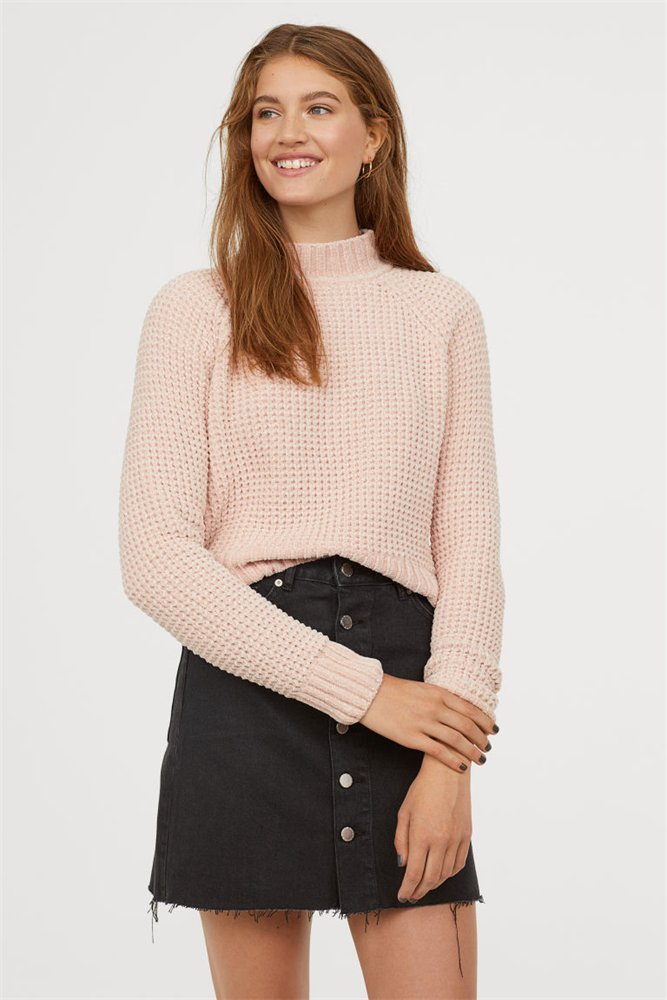
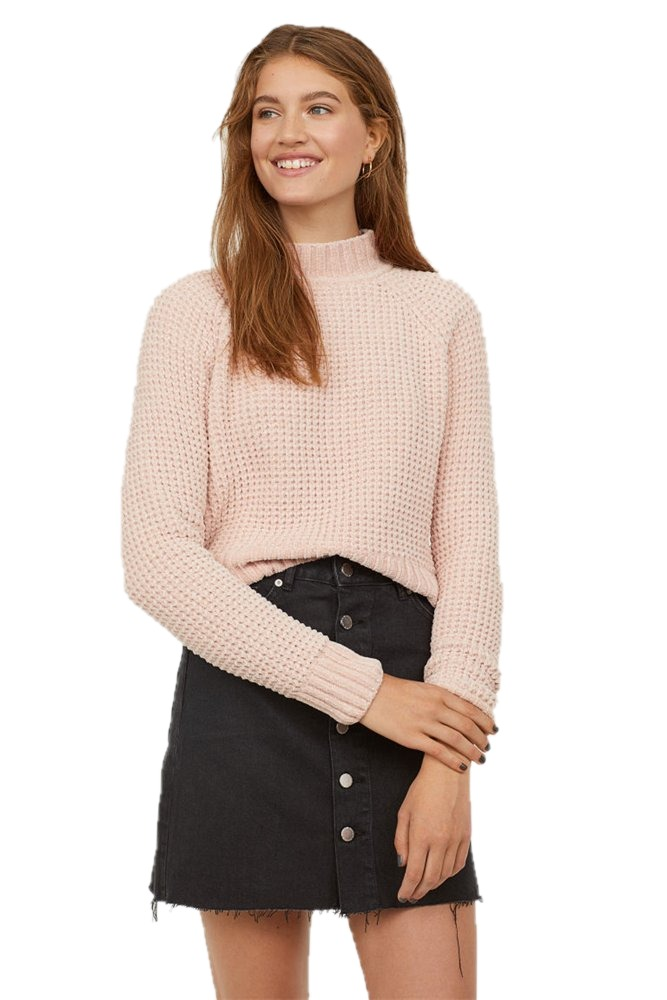
[2026-10-21 10:05] Collection page options: first view, cart button + wishlist/compare under grid cards (hover buttons hidden, button colour), image width, column/row gaps, collection image under the breadcrumb, +/- category toggle, pagination radius; clone02 uses them (3 columns, 18 per page, #f59d

diff --git a/scripts/demo/clone02.js b/scripts/demo/clone02.js
@@ -80,6 +80,10 @@ const HOME_COLLECTIONS = ['daily-deals', 'hot-deals', 'trending', 'new-items', '
 const inherited = clone01.products.map((p) => ({ ...p, collections: p.collections.filter((c) => !HOME_COLLECTIONS.includes(c)) }));
 
 const SIZES = ['S', 'M', 'L', 'XL'];
+// demos/clone02/images/p-*.jpg of the other homepage products have the background whitened
+// (the 7 not listed here) — don't regenerate them from the layout without redoing that
+const GREY_PHOTOS = ['cable-knit-sweater-dress', 'faux-fur-jacket', 'floral-balloon-sleeve-blouse', 'ditsy-floral-blouse', 'green-striped-satin-shirt',
+  'jacquard-knit-sweater', 'off-shoulder-poplin-top', 'open-knit-sweater', 'red-lace-trim-cami', 'soft-blue-knit-sweater', 'white-boxy-t-shirt', 'white-peplum-wrap-blouse'];
 const BRANDS = ['Sunshine', 'MS Studio', 'Art Studio', 'Pure', 'Handcrafted', 'Handmade'];
 const CARE = 'Machine wash at 30°C. Do not tumble dry. Iron at low temperature.';
 const P = [];
@@ -149,7 +153,10 @@ NEW.forEach(([handle, title, type, , , photo, , collections, short, details, com
   const key = src(`p-${handle}`, photo);
   const [price, compare, isNew, names] = LOOK[handle];
   const brand = BRANDS[(inherited.length + i) % BRANDS.length];
-  const inCollections = [...collections.filter((c) => c !== 'sale'), ...(compare ? ['sale'] : [])];
+  let inCollections = [...collections.filter((c) => c !== 'sale'), ...(compare ? ['sale'] : [])];
+  // Studio photos whose grey background could not be removed cleanly: homepage sections only,
+  // not on the category pages (white backgrounds there) — user request 2026-10-21
+  if (GREY_PHOTOS.includes(handle)) inCollections = inCollections.filter((c) => HOME_COLLECTIONS.includes(c));
   P.push({
     handle,
     title,
@@ -335,8 +342,8 @@ Object.assign(data.presets.Default, {
   color_secondary: '#c0dcdd',
   color_accent_dark: '#000000',
   color_accent_ink: '#000000',
-  color_price: '#f59dad',
-  color_price_regular: '#f59dad', // layout: prices without a discount are pink too
+  color_price: '#333333', // user request 2026-10-21 (the layout has pink prices)
+  color_price_regular: '#333333',
   color_badge_sale: '#fed38e',
   color_heading: '#000000',
   color_text: '#000000',
@@ -351,6 +358,7 @@ Object.assign(data.presets.Default, {
   notify_bar_size: 2,
   notify_bar_quick_view: false,
   quick_view_color_style: 'swatch',
+  pagination_radius: 5,
   // Cards: full-width 271×313 photo boxes
   card_image_shape: 'tall',
   card_image_fit: 'cover',
@@ -416,6 +424,13 @@ const INNER = ['collection', 'product', 'cart', 'blog', 'article', 'list-collect
 const innerTemplates = Object.fromEntries(INNER.map((name) => [name, base(`templates/${name}.json`)]));
 // Product page: thumbnails in a row under the large image (user request 2026-10-21)
 Object.assign(innerTemplates.product.sections.main.settings, { thumbs_position: 'bottom' });
+// Collection page (user request 2026-10-21): 3 columns first, Add to cart / Select options +
+// wishlist / compare under every card, image 75% of the card, 2.5rem columns, roomier rows,
+// collection image under the breadcrumb, + / − on categories with sub-categories
+Object.assign(innerTemplates.collection.sections['product-grid'].settings, {
+  products_per_page: 18, default_view: 'grid-3', grid_card_actions: true, grid_button_color: '#f59dad', card_image_width: 75, grid_column_gap: 2.5, grid_row_gap: 6,
+  collection_image_position: 'top', categories_toggle_icon: 'plus',
+});
 // Theme-setting images clone02 still takes from clone01 (inner-page banners, about photos…)
 const used = JSON.stringify([index, innerTemplates, header, footer, data]);
 const inheritedFiles = clone01.files.filter((x) => !images[x.key] && used.includes(`shopify://shop_images/${x.filename}`));

diff --git a/common/scss/section/_oc-collection.scss b/common/scss/section/_oc-collection.scss
@@ -380,7 +380,10 @@
 }
 
 // PSD grid: 4 × 218px cards, 18px apart
-#ProductGridContainer:not([data-view='list']) .product-grid { column-gap: 1.8rem; }
+#ProductGridContainer:not([data-view='list']) .product-grid {
+  column-gap: var(--grid-col-gap, 1.8rem);
+  row-gap: var(--grid-row-gap, 4rem);
+}
 
 // Grid / list switch: hover discs in grid view, side icons in list view
 // List view: no hover icons on the image — wishlist / compare sit beside Add to cart
@@ -485,4 +488,76 @@
   html.oc-sidebar-locked { overflow: hidden; }
 
   .collection-grid__title { font-size: 2.4rem; }
+}
+
+// Grid: image box narrower than the card (Collection → "Grid: image width"), centred
+#ProductGridContainer:not([data-view='list']) .card-wrapper .card__inner {
+  width: var(--card-image-box, 100%);
+  margin-inline: auto;
+}
+
+// Grid: "Add to cart / Select options" + small wishlist / compare icons always under the card
+// (the list view's action row, shown in the grid views too)
+#ProductGridContainer[data-grid-actions]:not([data-view='list']) {
+  // The row replaces the hover buttons on the image
+  .card-product__oc-actions,
+  .oc-card-actions,
+  .card-product__actions,
+  .card-product__bar { display: none !important; }
+
+  .card-product__list-atc {
+    background: var(--grid-btn-bg, var(--color-primary, #1b1b1b));
+
+    &:hover,
+    &:focus-visible { background: var(--grid-btn-bg, var(--color-primary, #1b1b1b)); filter: brightness(0.92); color: #fff; }
+  }
+
+  .card-product__list-actions {
+    display: flex;
+    order: 9;
+    justify-content: center;
+    gap: 0.6rem;
+    margin-top: 1rem !important;
+  }
+
+  .card-product__list-atc {
+    display: inline-flex;
+    min-width: 0;
+    min-height: 3.6rem;
+    padding: 0 1.6rem;
+    font-size: 1.2rem;
+  }
+
+  .card-product__list-icon {
+    width: 3.6rem;
+    height: 3.6rem;
+
+    svg { width: 1.5rem; height: 1.5rem; }
+  }
+}
+
+// Collection image under the breadcrumb, full container width
+.collection-grid__image--top {
+  margin-bottom: 3rem;
+
+  img { width: 100%; height: auto; }
+}
+
+// Product categories: + / − instead of the arrow (Collection → sub-category toggle)
+.facets-wrapper .sidebar-categories--plus {
+  .sidebar-categories__toggle,
+  .sidebar-categories__details[open] .sidebar-categories__toggle { transform: none; }
+
+  .sidebar-categories__toggle svg { width: 1.2rem; height: 1.2rem; }
+
+  .sidebar-categories__minus,
+  .sidebar-categories__details[open] .sidebar-categories__plus { display: none; }
+
+  .sidebar-categories__details[open] .sidebar-categories__minus { display: inline-flex; }
+
+  .sidebar-categories__plus,
+  .sidebar-categories__minus { display: inline-flex; }
+
+  .sidebar-categories__details[open] .sidebar-categories__plus { display: none; }
+  .sidebar-categories__details:not([open]) .sidebar-categories__minus { display: none; }
 }

diff --git a/scripts/demo-import.js b/scripts/demo-import.js
@@ -277,6 +277,12 @@ if (step('collections')) {
       id = r.collectionCreate.collection.id;
     } else {
       if (members.length) userErrors(gql('mutation($id: ID!, $p: [ID!]!) { collectionAddProducts(id: $id, productIds: $p) { userErrors { field message } } }', { id, p: members }), `${c.handle} products`);
+      // This demo's products that left the collection in content.json: take them out
+      // (other products of the store are left alone)
+      const demoHandles = new Set(content.products.map((p) => p.handle));
+      const inColl = gql('query($id: ID!) { collection(id: $id) { products(first: 250) { nodes { id handle } } } }', { id }).collection.products.nodes;
+      const stale = inColl.filter((n) => demoHandles.has(n.handle) && !members.includes(n.id)).map((n) => n.id);
+      if (stale.length) userErrors(gql('mutation($id: ID!, $p: [ID!]!) { collectionRemoveProducts(id: $id, productIds: $p) { userErrors { field message } } }', { id, p: stale }), `${c.handle} remove`);
       const update = { id, sortOrder: 'MANUAL', descriptionHtml: `<p>${c.description}</p>` };
       if (content.images[c.image]) update.image = { src: imageUrl(c.image), altText: c.title };
       userErrors(gql('mutation($input: CollectionInput!) { collectionUpdate(input: $input) { userErrors { field message } } }', { input: update }), `${c.handle} update`);

diff --git a/scripts/validate-templates.js b/scripts/validate-templates.js
@@ -52,7 +52,7 @@ function checkSettings(where, values, defs) {
   return changed;
 }
 
-// Schema rules Shopify enforces on upload: option labels ≤ 50 characters, no blank defaults
+// Schema rules Shopify enforces on upload: option labels ≤ 50 characters, setting labels ≤ 70, no blank defaults
 for (const f of fs.readdirSync(path.join(root, "sections")).filter((f) => f.endsWith(".liquid"))) {
   const schema = schemaFor(f.replace(/.liquid$/, ""));
   if (!schema) continue;
@@ -62,6 +62,7 @@ for (const f of fs.readdirSync(path.join(root, "sections")).filter((f) => f.ends
   for (const list of lists) for (const x of list) {
     if (x.default === "") report(`sections/${f}`, `setting "${x.id}" has a blank default`);
     for (const o of x.options || []) if (o.label && !o.label.startsWith("t:") && o.label.length > 50) report(`sections/${f}`, `option label too long in "${x.id}": ${o.label}`);
+    if (x.label && !x.label.startsWith("t:") && x.label.length > 70) report(`sections/${f}`, `setting label too long (max 70) in "${x.id}": ${x.label}`);
   }
 }
 

diff --git a/common/scss/section/_main-collection.scss b/common/scss/section/_main-collection.scss
@@ -861,7 +861,7 @@
   height: 4rem;
   padding: 0 1.2rem;
   border: 1px solid #e6e6e6;
-  border-radius: 2rem;
+  border-radius: var(--pagination-radius, 2rem); // Theme settings → Pagination corner radius
   background: #fff;
   color: #555;
   font-size: 1.4rem;
